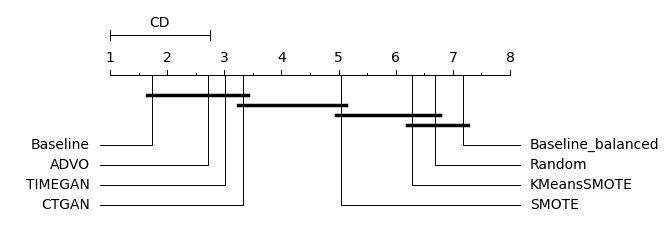
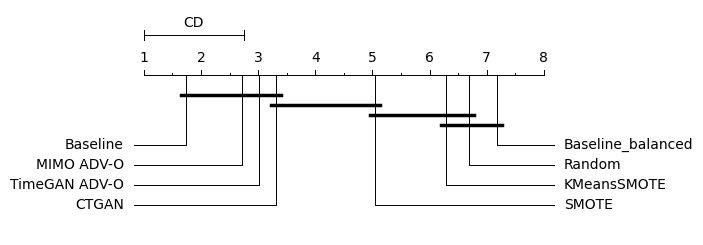
Synthetic figures fixed accordingly

diff --git a/statistical_tests_synthetic.py b/statistical_tests_synthetic.py
@@ -56,6 +56,7 @@ if __name__ == "__main__":
     for filename in os.listdir(RESULTS_FOLDER):
         if filename.startswith("all_metrics"):
             dataframe = pd.read_csv(os.path.join(RESULTS_FOLDER, filename))
+            dataframe = dataframe.rename(columns={"TIMEGAN": "TimeGAN ADV-O", "ADVO": "MIMO ADV-O"})
             results_list.append(dataframe)
 
     
